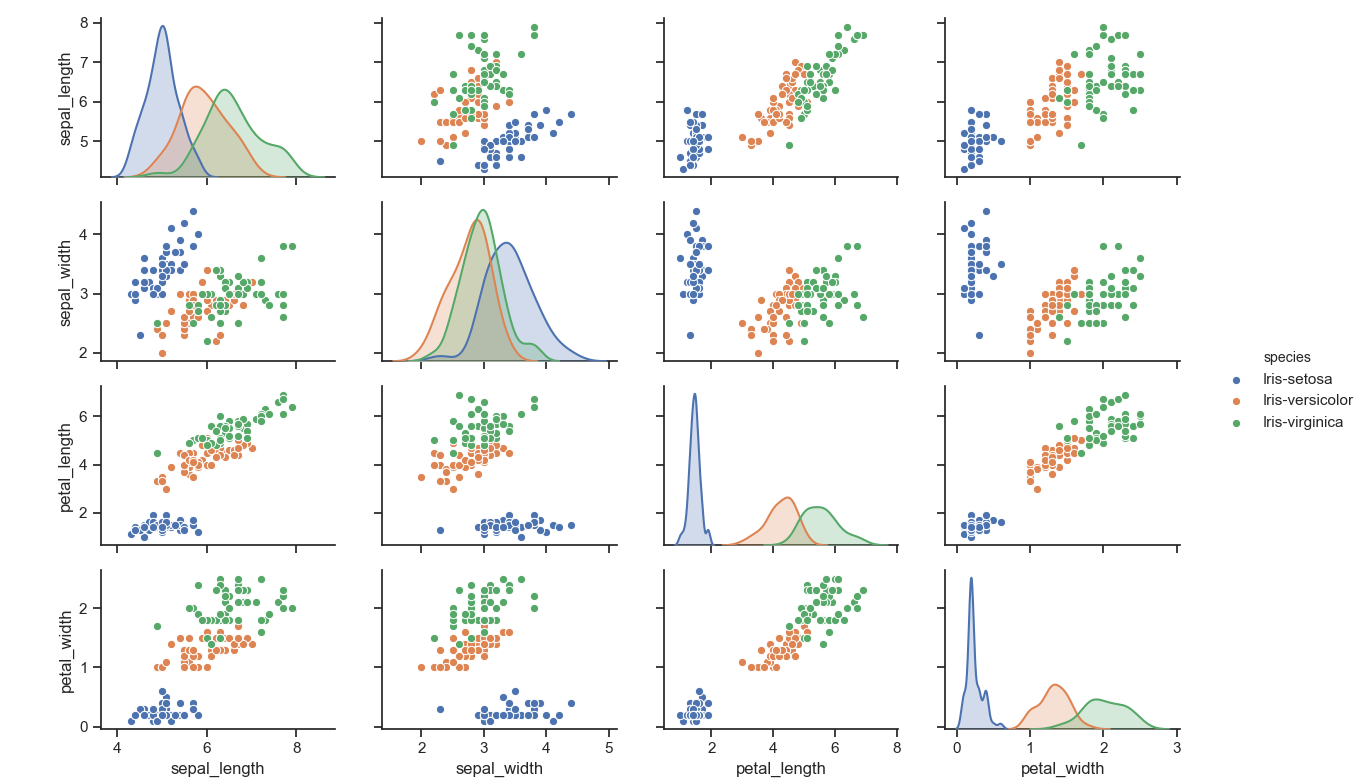
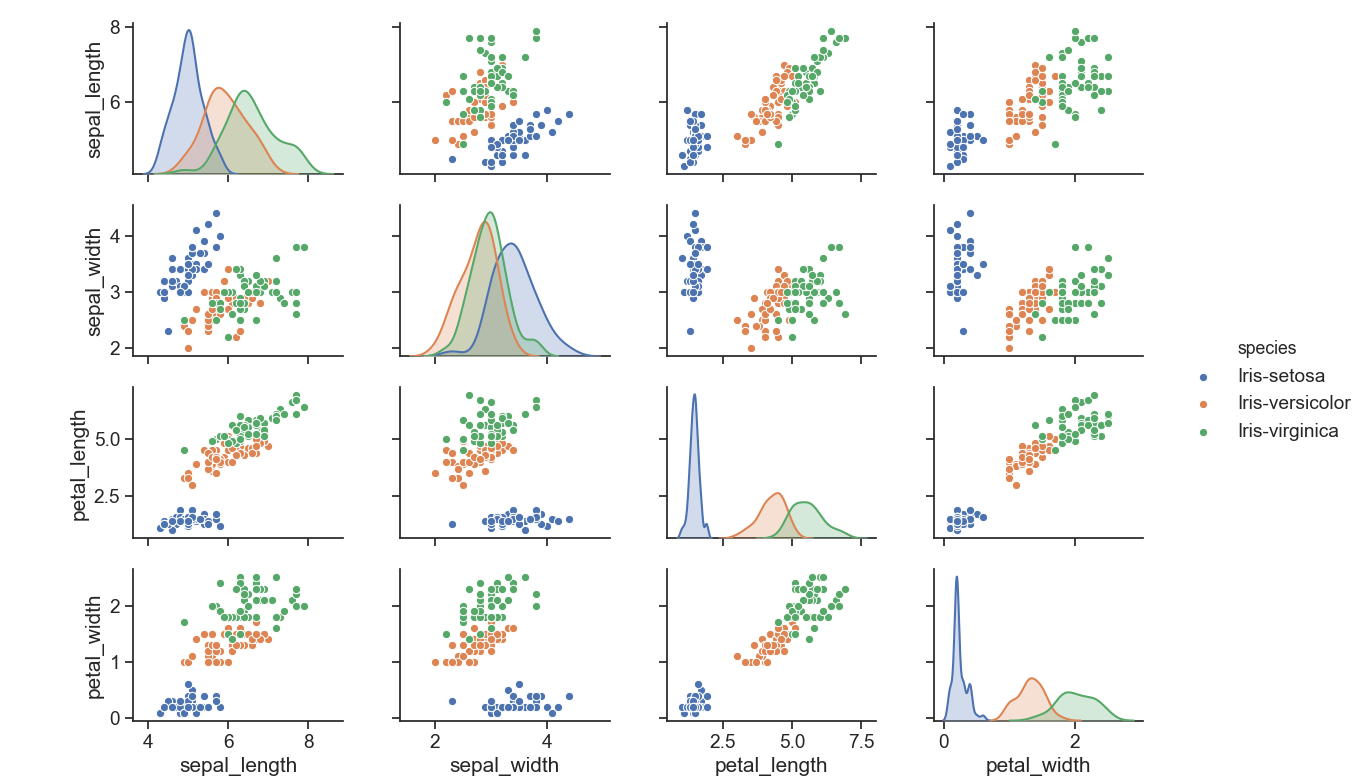
cleaned up repository

diff --git a/analysis.py b/analysis.py
@@ -65,7 +65,7 @@ pet_len = iris_data['petal_length']
 pet_width = iris_data['petal_width']
 species = iris_data['species']
 
-'''
+
 # Write a function which outputs a histogram for each dataset variable and saves
 # it as a png file.
 # First for numeric variables
@@ -107,8 +107,8 @@ axs1.set(ylabel='frequency')
 
 axs2 = axs[0, 1]
 axs2.hist(sep_width, rwidth=0.9)
-axs2.set_title('Sepal_Width_Cm', fontdict={'fontsize': 15})
-axs2.set(ylabel='frequency', fontdict={'fontsize': 15})
+axs2.set_title('Sepal_Width_Cm',)
+axs2.set(ylabel='frequency')
 
 axs3 = axs[1, 0]
 axs3.hist(pet_len, rwidth=0.9)
@@ -121,10 +121,10 @@ axs4.set_title('Petal_Width_Cm')
 axs4.set(ylabel='frequency')
 
 
-plt.show()
+#plt.show()
 plt.close()
 
-'''
+
 
 # C. Output a scatter plot of each pair of variables
 
@@ -156,7 +156,7 @@ scatter('petal_length', 'petal_width')
 
 
 # Output pairplot using kde to represent marginal distribution
-sns.set(style='ticks', color_codes=True)
+sns.set(style='ticks', font_scale=1.25, color_codes=True)
 sns.pairplot(iris_data, hue='species', diag_kind='kde')
 plt.show()
 
